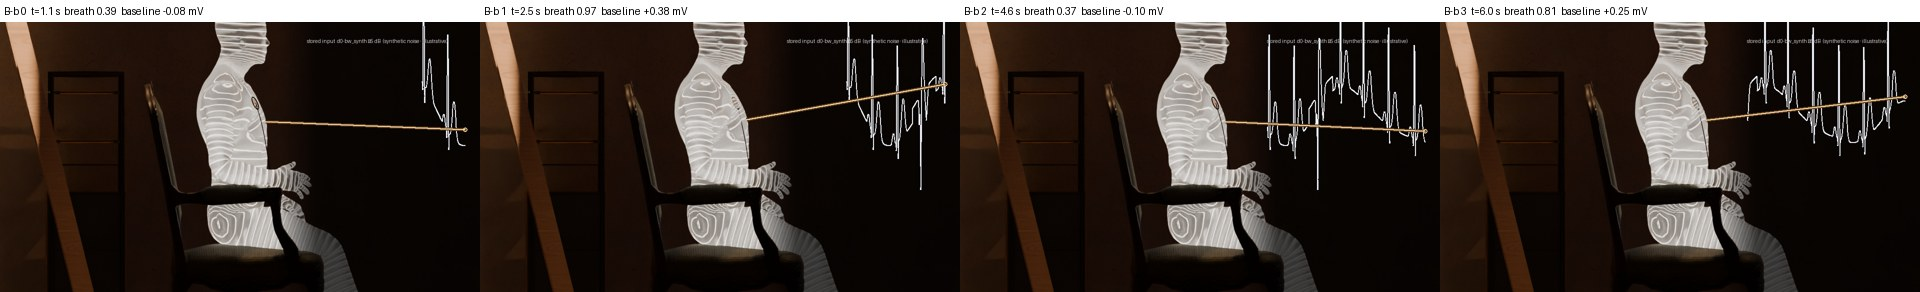
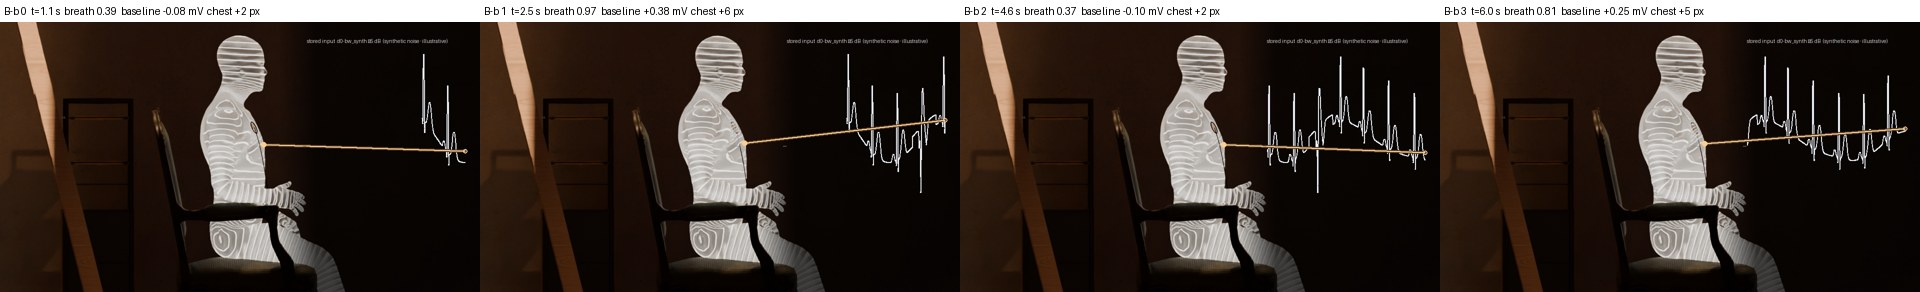
Inflow B-b: head in frame, stored trace fits, chest tick (README); hook the P-b wide field shot
Claude-Session: https://claude.ai/code/session_01AXbpXSdzA7KrmCTamq6EbE

diff --git a/scripts/assets/inflow-preview-v3.py b/scripts/assets/inflow-preview-v3.py
@@ -173,6 +173,12 @@ def run(L):
         sheet(fr, os.path.join(OUT, 'inflow_ma.jpg'))
         front.default_value = -1; ring.default_value = lead.default_value = 0
 
+    if 'field' in ONLY:                                          # P-b first stage on a wide crane shot (inflow-field-v3.py)
+        import importlib.util as _iu, types
+        _sp = _iu.spec_from_file_location('inflow_field', os.path.join(ROOT, 'scripts', 'assets', 'inflow-field-v3.py'))
+        _f = _iu.module_from_spec(_sp); _sp.loader.exec_module(_f)
+        _f.run(dict(g=g, sc=sc, cams=cams, ip=types.SimpleNamespace(add_red=add_red), red=(common, front),
+                    with_electrodes=with_electrodes, sheet=sheet))
     if 'bw' not in ONLY: print('   inflow stills →', OUT); return
     # ---- B-b baseline: side view, chest front → stored baseline thread ----
     x, fs = stored_trace(ROOT, 'd0-bw_synth--5')

diff --git a/verification/r1-inflow-20261007/README.md b/verification/r1-inflow-20261007/README.md
@@ -28,3 +28,10 @@ Cycles 24 spp, 서고 r2, 의자 GreenChair_01, H5 몸. 렌더 전 자세 관문
 - 파형 막의 0 mV 높이를 가슴 점 높이에 맞춤(막 배치만, 값과 mV 크기는 그대로). 빛줄기가 거의 수평에서 시작해 저장 기저선만큼 기움: t=1.1 s(−0.08 mV) 수평, 2.5 s(+0.38) 위로, 4.6 s(−0.10) 거의 수평, 6.0 s(+0.25) 위로.
 - 옆 화면 직교 크기 1.6 → 1.75, 카메라 12 cm 올림. 고지 문구를 화면 위로.
 - 판정: 조건부. 선의 기울기 변화로 기저선과 숨의 같은 위상이 이전보다 읽힘. 남은 것: 머리 윗부분이 아직 잘림, R 파 꼭대기가 막 위로 넘침(0 mV를 가슴 높이에 두어 위쪽 여유가 줄었음 — 막을 더 크게 하거나 mV 크기를 줄여야 함), 가슴 점 자체의 오르내림은 여전히 작음.
+
+## 갱신 2026-10-07 (2) — B-b 남은 문제
+사용자: "남은 문제도 고쳐줘."
+- 머리: 옆 화면 직교 크기 1.9, 카메라 20 cm 올림 → 머리 전체가 화면 안.
+- 파형 넘침: mV 크기를 저장 입력 전체 범위(−0.68…+1.33 mV)가 막에 들어가게 계산(138 px/mV). 0 mV는 날숨 때 가슴 높이(248 px).
+- 가슴 움직임: 가슴 점(밝은 점)과 날숨 높이 기준 눈금을 그림. 들숨에서 기준보다 2–6 px 올라감(라벨 `chest`). 움직임은 여전히 작음 — 셰이프 키 0.8배와 상체 뼈의 실제 크기(가슴 둘레 측정값)라서 키우지 않음.
+- 판정: 통과(확인 렌더 기준). 빛줄기 기울기가 저장 기저선과 같은 방향으로 바뀌고, 가슴 점이 같은 때 올라감.
